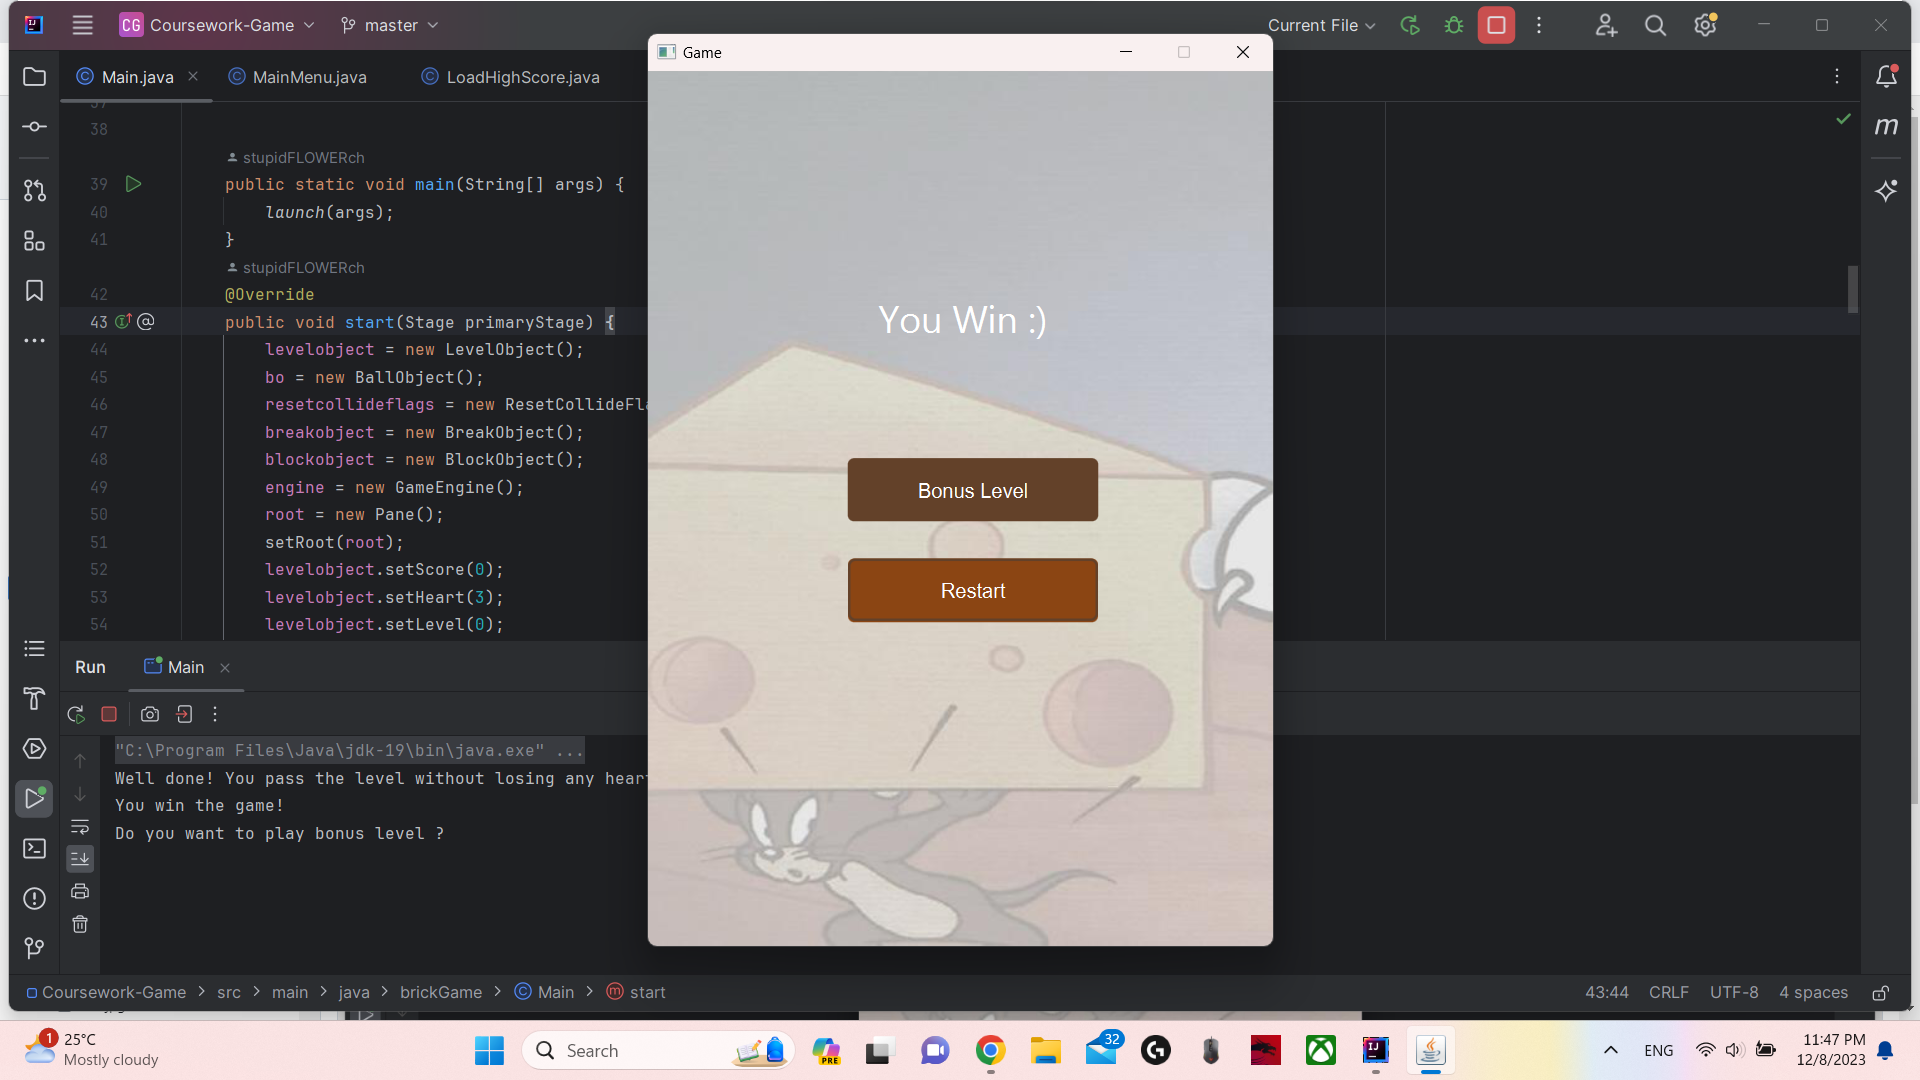
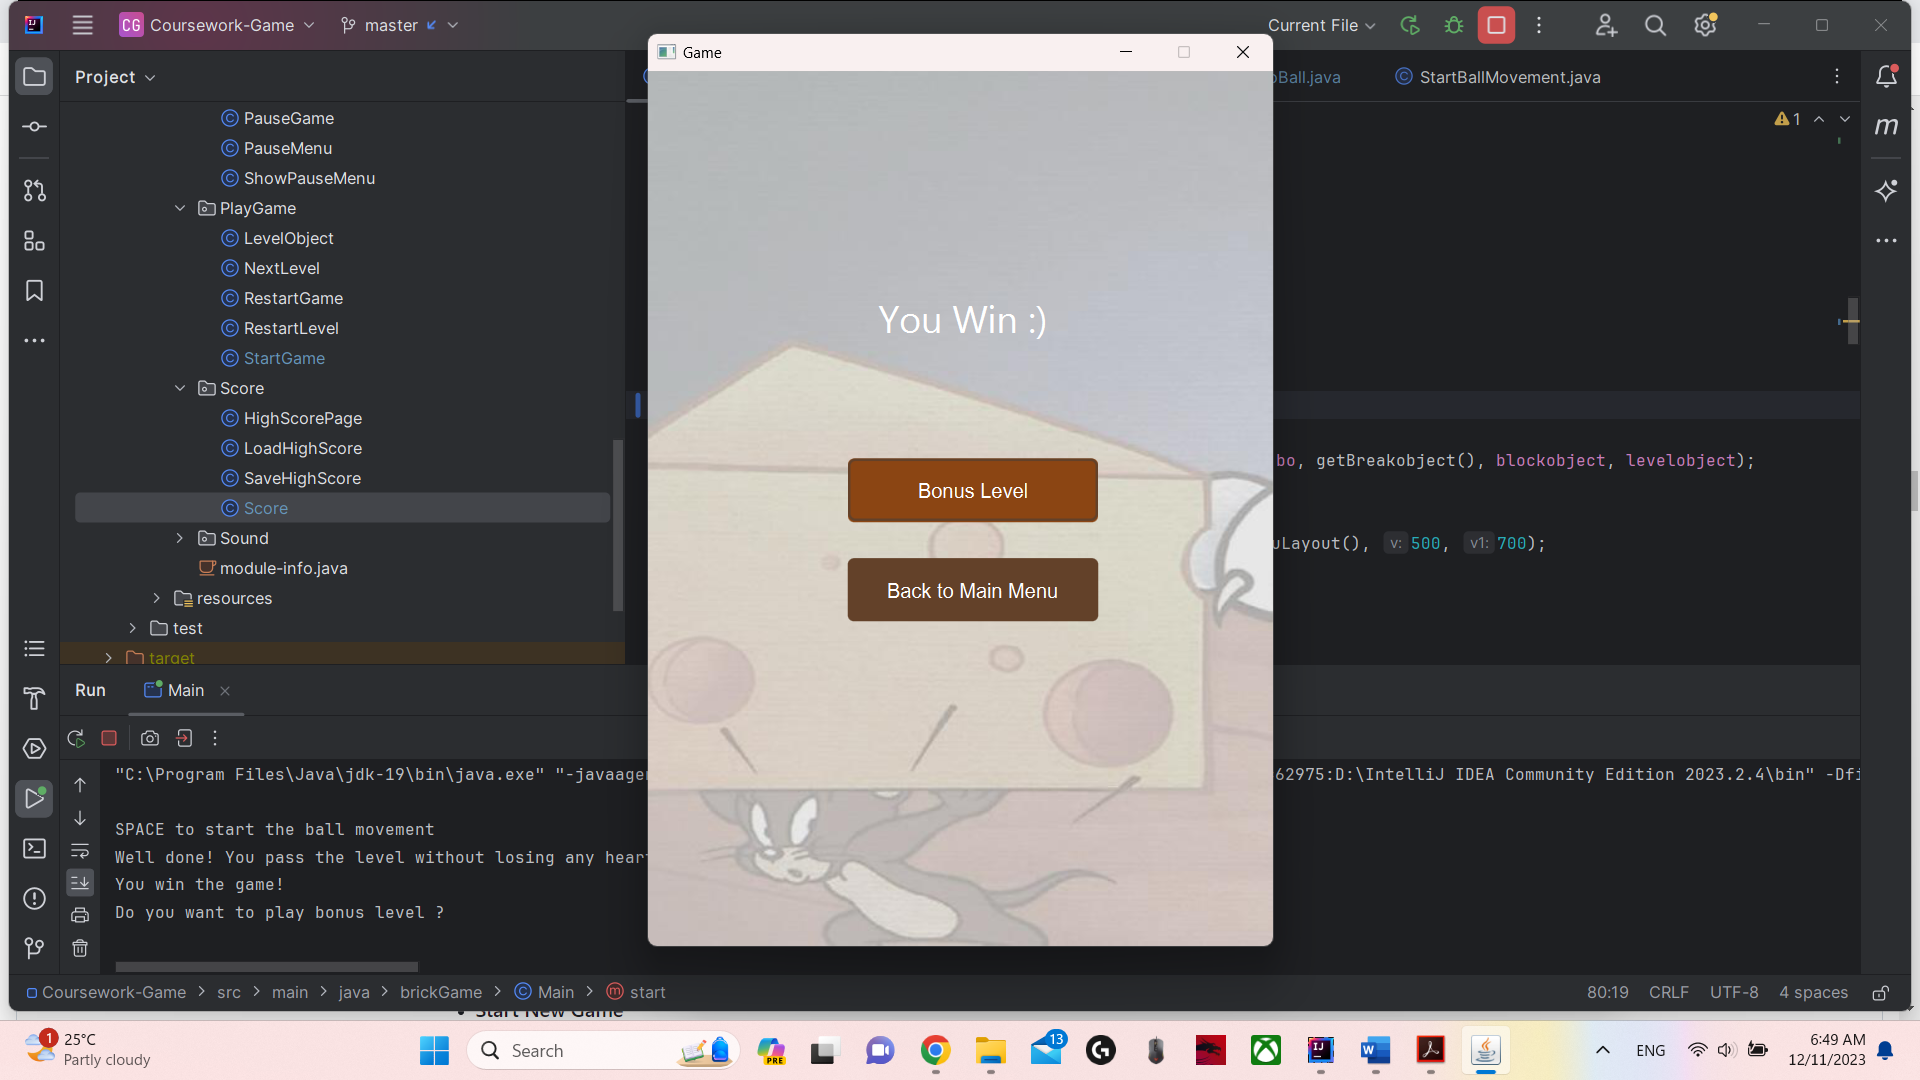
Add  images for readme file
Change button name in Score.java

Initialize ball and break if loss a heart

diff --git a/src/main/java/Ball/SetPhysicsToBall.java b/src/main/java/Ball/SetPhysicsToBall.java
@@ -1,5 +1,6 @@
 package Ball;
 
+import Break.InitBreak;
 import Score.Score;
 import PlayGame.LevelObject;
 import Break.BreakObject;
@@ -29,7 +30,8 @@ public class SetPhysicsToBall {
      */
     public void setPhysicsToBall(Stage stage, Main main, GameEngine engine, BallObject bo, BreakObject breakobject, BlockObject blockobject, LevelObject levelobject) {
         ResetCollideFlags resetcollideflags = new ResetCollideFlags();
-
+        InitBall initball = new InitBall();
+        InitBreak initbreak = new InitBreak();
         synchronized (this) {
             // Check if the ball is below the game scene and adjust its behavior
             if (bo.getyBall() >= levelobject.getSceneHeight() - bo.getBallRadius() && bo.isGoDownBall()) {
@@ -48,6 +50,13 @@ public class SetPhysicsToBall {
                         engine.stop();
                         return;
                     }
+                    System.out.println("Ops, you lost a heart");
+                    initball.initBall(main.getBo());
+                    main.getBo().getBall().setCenterX(main.getBo().getxBall());
+                    main.getBo().getBall().setCenterY(main.getBo().getyBall());
+                    main.getBreakobject().setxBreak(185);
+                    initbreak.initBreak(main.getBreakobject().getRect(), main.getBreakobject().getxBreak());
+
                 }
             }
 

diff --git a/src/main/java/Score/Score.java b/src/main/java/Score/Score.java
@@ -201,7 +201,7 @@ public class Score {
             bonusLevel.setTranslateY(310);
             bonusLevel.setOnAction(event -> startgame.startGame());
 
-            Button restart = new Button("Restart");
+            Button restart = new Button("Back to Main Menu");
             restart.setTranslateX(160);
             restart.setTranslateY(390);
             restart.setOnAction(event -> restartgame.restartGame(stage, main, bo, blockobject, levelobject));
